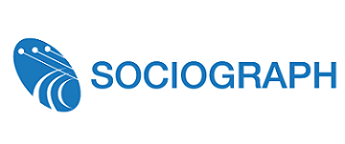
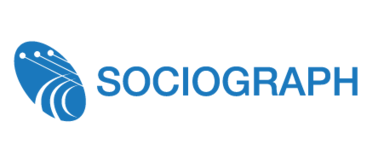
Añadida una opcion para elegir el color de la barra en el archivo de configuracion

diff --git a/Variables.py b/Variables.py
@@ -31,7 +31,7 @@ w_panel_player = 640
 h_panel_player = 500
 
 # Variables del logo
-w_logo = 431
+w_logo = 500
 h_logo = 183
 
 # Variables slider
@@ -94,7 +94,7 @@ t_player = 0
 l_panel_player = 640
 t_panel_player = 0
 
-l_logo = 1400
+l_logo = 1350
 t_logo = 0
 
 t_slider = 420
